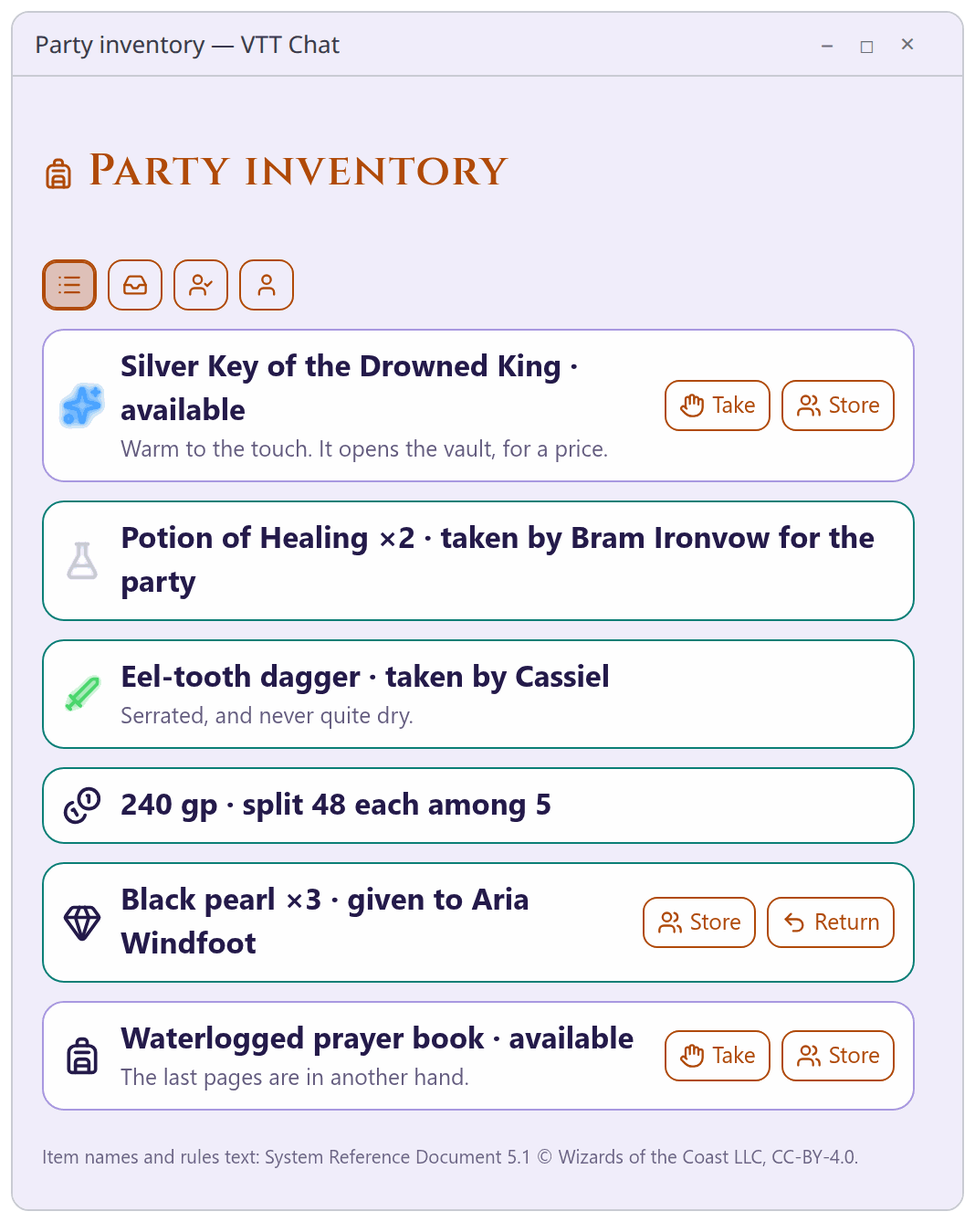
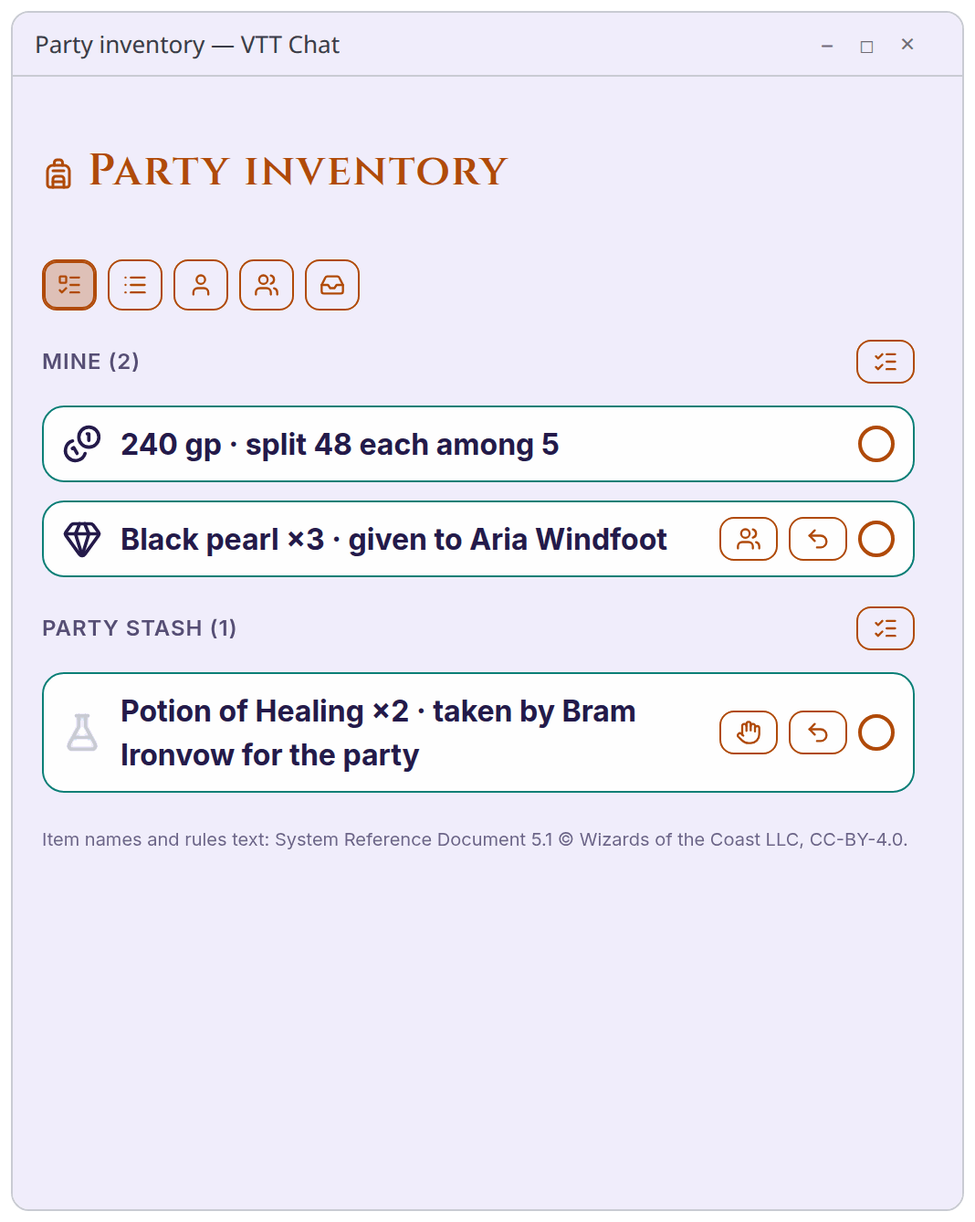
docs: new screenshots from the current build, and the guides brought up to 0.6.4
The history tabs and the Transcript tab, the larger handouts, language spans and the reading switches, dev downloads, and the 0.6.4 status.

diff --git a/ROADMAP.md b/ROADMAP.md
@@ -18,28 +18,28 @@
 
 **Stage 13 was closed by Andy on 2026-11-24.** Session 4 validated the records pipeline end to end on a real, full-length session, and the manual sweep accepted the cloud connectors, OIDC and the cross-platform clients. Chunking for long sessions is built and merged (in 0.6.3-dev.1) but was not re-run on a real session; that is accepted, and a problem there is a bug. What is still a loose end is in the [stocktake](docs/BUILD-STATUS.md#stocktake-2026-11-21-what-is-built-and-what-is-not-yet-proven), none of it blocking. **Next is Stage 14** (0.6.3 and 0.6.4).
 
-| Stage                          | State | What was delivered                                                                                                                                                                                           | Detail                                                                                                                                         |
-| ------------------------------ | ----- | ------------------------------------------------------------------------------------------------------------------------------------------------------------------------------------------------------------ | ---------------------------------------------------------------------------------------------------------------------------------------------- |
-| 0 Foundations                  | 🟢    | Monorepo (npm and Cargo workspaces), lint, format, CI and conventions.                                                                                                                                       | [detail](docs/tracker/STAGES-0-TO-8.md#stage-0--foundations)                                                                                   |
-| 0.5 State and resilience       | 🟢    | The rules for client state on long sessions (leaf isolation, no-op guards, hidden is the default).                                                                                                           | [detail](docs/tracker/STAGES-0-TO-8.md#stage-05--state--resilience-architecture)                                                               |
-| 1 Pivot cleanup                | 🟢    | The old browser-overlay design removed and the repo rewritten (v0.2.0).                                                                                                                                      | [detail](docs/tracker/STAGES-0-TO-8.md#stage-1--pivot-cleanup)                                                                                 |
-| 2 Audio and records spike      | 🟢    | The Rust audio and LiveKit client, echo cancellation, the cue player and Egress recording, measured on real machines.                                                                                        | [detail](docs/tracker/STAGES-0-TO-8.md#stage-2--audio--records-spike)                                                                          |
-| 3 Server core                  | 🟢    | Accounts, campaigns, invites, DM swap, the REST and WebSocket layer with replay, Postgres and Valkey, recording consent and the Admin CLI, in both install tiers.                                            | [detail](docs/tracker/STAGES-0-TO-8.md#stage-3--server-core)                                                                                   |
-| 3b Deployment buildout         | 🟢    | Published images, the one-command installer, the protocol handshake, server-chosen client builds, web onboarding and Devices.                                                                                | [detail](docs/tracker/STAGES-0-TO-8.md#stage-3b--deployment-buildout-added-2026-11-11)                                                         |
-| 4 Tray client                  | 🟢    | The system-tray app: main window, voice and mixer, status, notifications, auto-rejoin, autostart and the updater.                                                                                            | [detail](docs/tracker/STAGES-0-TO-8.md#stage-4--tray-client)                                                                                   |
-| 5 Records and AI summaries     | 🟢    | Per-speaker recording, Whisper, and a scribe then a bard, on the operator's own hardware (or a remote one, with fallback); search; DM-only summaries.                                                        | [detail](docs/tracker/STAGES-0-TO-8.md#stage-5--records--ai-summaries-core)                                                                    |
-| 6 Table features               | 🟢    | Chat and whispers, handouts, loot, party splits, the soundboard, schedule and RSVP. Voice whispers were dropped.                                                                                             | [detail](docs/tracker/STAGES-0-TO-8.md#stage-6--table-features)                                                                                |
-| 7 Web app                      | 🟢    | The same app on any device at `/app`, with chat commands, history and handouts.                                                                                                                              | [detail](docs/tracker/STAGES-0-TO-8.md#stage-7--mobile-spa)                                                                                    |
-| 8 Operations                   | 🟢    | `vtt-admin`, the public status page, backup and restore.                                                                                                                                                     | [detail](docs/tracker/STAGES-0-TO-8.md#stage-8--operations-admin-cli--status-page)                                                             |
-| 9 Hardening                    | 🟢    | The idle-CPU cause found and fixed, container hardening, records a CPU-only server can keep up with, updates that clean up after themselves.                                                                 | [detail](docs/tracker/STAGE-09-HARDENING.md#stage-9--cross-platform-hardening--production-readiness)                                           |
-| 10 Integrations and loot       | 🟢    | D&D Beyond sync, single sign-on, the release pipeline, loot management and chat history. The rest of its list is ideas.                                                                                      | [detail](docs/tracker/STAGE-10-INTEGRATIONS-AND-LOOT.md#stage-10--optional-integrations-advanced-users)                                        |
-| 11 Protocol 4 and verification | 🟢    | 0.6.0 (protocol 4): loot re-drop and confirm, the soundboard, GM Notes, the glossary, the storyteller setting, the off-site notice, sheet details. 0.6.1: the sound deck, the phone table page, macOS Intel. | [detail](docs/tracker/STAGE-11-PROTOCOL-4.md#stage-11--protocol-4-and-verification-060-and-061-planned-2026-11-18)                             |
-| 12 Storytelling                | 🟢    | The Claude and OpenAI connectors, a glossary into Whisper and corrections, a structured scribe, the Chronicler, campaign memory and five storytellers. **Unit-tested only; none has met a real session.**    | [detail](docs/tracker/STAGE-12-STORYTELLING.md#stage-12--storytelling-roles-personas-and-campaign-memory-idea-2026-11-17-scheduled-2026-11-18) |
-| 13 Quality validation          | 🟢    | Closed 2026-11-24 (Andy). The demo campaign run end to end on real hardware, the manual sweep accepted, chunking built; problems from here are bugs.                                                         | [detail](docs/tracker/STAGE-13-QUALITY-VALIDATION.md)                                                                                          |
-| 14 Polish on protocol 4        | 🟡    | **Planned 2026-11-24.** No wire change, so patch releases: **0.6.3** (small: a font for every language, one icon set for both apps) and **0.6.4** (larger: language spans, history tabs, ops tooling).       | [below](#stage-14--polish-on-protocol-4-063-and-064-planned-2026-11-24)                                                                        |
-| 15 Protocol 5 (0.7.0)          | ⚪    | **Planned, not fully designed.** The next wire bump, led by campaign memory (the glossary, lore import and a knowledge graph) and the loose ends that need the wire.                                         | [below](#stage-15--protocol-5-and-070-planned-2026-11-21)                                                                                      |
-| 16 to 18                       | ⚪    | Ideas, not scheduled: signed Linux package repositories; a self-signed certificate the app can pin; several workers.                                                                                         | [below](#stage-16--linux-package-repositories-served-by-the-server-idea-2026-11-19-not-scheduled)                                              |
-| Future ideas                   | ⚪    | Parked, undesigned.                                                                                                                                                                                          | [below](#future-ideas)                                                                                                                         |
+| Stage                          | State | What was delivered                                                                                                                                                                                                                                                 | Detail                                                                                                                                         |
+| ------------------------------ | ----- | ------------------------------------------------------------------------------------------------------------------------------------------------------------------------------------------------------------------------------------------------------------------ | ---------------------------------------------------------------------------------------------------------------------------------------------- |
+| 0 Foundations                  | 🟢    | Monorepo (npm and Cargo workspaces), lint, format, CI and conventions.                                                                                                                                                                                             | [detail](docs/tracker/STAGES-0-TO-8.md#stage-0--foundations)                                                                                   |
+| 0.5 State and resilience       | 🟢    | The rules for client state on long sessions (leaf isolation, no-op guards, hidden is the default).                                                                                                                                                                 | [detail](docs/tracker/STAGES-0-TO-8.md#stage-05--state--resilience-architecture)                                                               |
+| 1 Pivot cleanup                | 🟢    | The old browser-overlay design removed and the repo rewritten (v0.2.0).                                                                                                                                                                                            | [detail](docs/tracker/STAGES-0-TO-8.md#stage-1--pivot-cleanup)                                                                                 |
+| 2 Audio and records spike      | 🟢    | The Rust audio and LiveKit client, echo cancellation, the cue player and Egress recording, measured on real machines.                                                                                                                                              | [detail](docs/tracker/STAGES-0-TO-8.md#stage-2--audio--records-spike)                                                                          |
+| 3 Server core                  | 🟢    | Accounts, campaigns, invites, DM swap, the REST and WebSocket layer with replay, Postgres and Valkey, recording consent and the Admin CLI, in both install tiers.                                                                                                  | [detail](docs/tracker/STAGES-0-TO-8.md#stage-3--server-core)                                                                                   |
+| 3b Deployment buildout         | 🟢    | Published images, the one-command installer, the protocol handshake, server-chosen client builds, web onboarding and Devices.                                                                                                                                      | [detail](docs/tracker/STAGES-0-TO-8.md#stage-3b--deployment-buildout-added-2026-11-11)                                                         |
+| 4 Tray client                  | 🟢    | The system-tray app: main window, voice and mixer, status, notifications, auto-rejoin, autostart and the updater.                                                                                                                                                  | [detail](docs/tracker/STAGES-0-TO-8.md#stage-4--tray-client)                                                                                   |
+| 5 Records and AI summaries     | 🟢    | Per-speaker recording, Whisper, and a scribe then a bard, on the operator's own hardware (or a remote one, with fallback); search; DM-only summaries.                                                                                                              | [detail](docs/tracker/STAGES-0-TO-8.md#stage-5--records--ai-summaries-core)                                                                    |
+| 6 Table features               | 🟢    | Chat and whispers, handouts, loot, party splits, the soundboard, schedule and RSVP. Voice whispers were dropped.                                                                                                                                                   | [detail](docs/tracker/STAGES-0-TO-8.md#stage-6--table-features)                                                                                |
+| 7 Web app                      | 🟢    | The same app on any device at `/app`, with chat commands, history and handouts.                                                                                                                                                                                    | [detail](docs/tracker/STAGES-0-TO-8.md#stage-7--mobile-spa)                                                                                    |
+| 8 Operations                   | 🟢    | `vtt-admin`, the public status page, backup and restore.                                                                                                                                                                                                           | [detail](docs/tracker/STAGES-0-TO-8.md#stage-8--operations-admin-cli--status-page)                                                             |
+| 9 Hardening                    | 🟢    | The idle-CPU cause found and fixed, container hardening, records a CPU-only server can keep up with, updates that clean up after themselves.                                                                                                                       | [detail](docs/tracker/STAGE-09-HARDENING.md#stage-9--cross-platform-hardening--production-readiness)                                           |
+| 10 Integrations and loot       | 🟢    | D&D Beyond sync, single sign-on, the release pipeline, loot management and chat history. The rest of its list is ideas.                                                                                                                                            | [detail](docs/tracker/STAGE-10-INTEGRATIONS-AND-LOOT.md#stage-10--optional-integrations-advanced-users)                                        |
+| 11 Protocol 4 and verification | 🟢    | 0.6.0 (protocol 4): loot re-drop and confirm, the soundboard, GM Notes, the glossary, the storyteller setting, the off-site notice, sheet details. 0.6.1: the sound deck, the phone table page, macOS Intel.                                                       | [detail](docs/tracker/STAGE-11-PROTOCOL-4.md#stage-11--protocol-4-and-verification-060-and-061-planned-2026-11-18)                             |
+| 12 Storytelling                | 🟢    | The Claude and OpenAI connectors, a glossary into Whisper and corrections, a structured scribe, the Chronicler, campaign memory and five storytellers. **Unit-tested only; none has met a real session.**                                                          | [detail](docs/tracker/STAGE-12-STORYTELLING.md#stage-12--storytelling-roles-personas-and-campaign-memory-idea-2026-11-17-scheduled-2026-11-18) |
+| 13 Quality validation          | 🟢    | Closed 2026-11-24 (Andy). The demo campaign run end to end on real hardware, the manual sweep accepted, chunking built; problems from here are bugs.                                                                                                               | [detail](docs/tracker/STAGE-13-QUALITY-VALIDATION.md)                                                                                          |
+| 14 Polish on protocol 4        | 🟡    | **Planned 2026-11-24.** No wire change, so patch releases: **0.6.3** (small: a font for every language, one icon set for both apps) and **0.6.4** (larger: language spans, history tabs, ops tooling; built, released 2026-11-25, closed by Andy's session 4 run). | [below](#stage-14--polish-on-protocol-4-063-and-064-planned-2026-11-24)                                                                        |
+| 15 Protocol 5 (0.7.0)          | ⚪    | **Planned, not fully designed.** The next wire bump, led by campaign memory (the glossary, lore import and a knowledge graph) and the loose ends that need the wire.                                                                                               | [below](#stage-15--protocol-5-and-070-planned-2026-11-21)                                                                                      |
+| 16 to 18                       | ⚪    | Ideas, not scheduled: signed Linux package repositories; a self-signed certificate the app can pin; several workers.                                                                                                                                               | [below](#stage-16--linux-package-repositories-served-by-the-server-idea-2026-11-19-not-scheduled)                                              |
+| Future ideas                   | ⚪    | Parked, undesigned.                                                                                                                                                                                                                                                | [below](#future-ideas)                                                                                                                         |
 
 ```mermaid
 flowchart LR

diff --git a/docs/guides/USER-GUIDE.md b/docs/guides/USER-GUIDE.md
@@ -171,6 +171,10 @@ a **PDF**. Each can have a short caption.
 - **Click a card** to open it big, in its own window you can place beside the game. Pictures have **zoom**
   buttons (also Ctrl + the mouse wheel; drag to move around), which is useful for a large map. A PDF is
   read page by page inside the window.
+- A note can set a few words, or a whole inscription, in an **in-world language's own typeface**: write
+  `[Khazad ul barak](lang:dwarvish)`, or put a longer passage in a fenced block named for the language. Anywhere else it
+  reads as plain text. **Settings, Profile, Appearance** has switches to turn the language fonts, or the decorative document fonts,
+  down or off if they are hard to read.
 - Only the DM can edit a handout (open it and press the pencil). For a set of pictures the pencil also shows a
   strip to move a picture earlier or later, remove one (never the last), or add another. The handouts button in the bar lists
   everything shared with you.
@@ -207,7 +211,7 @@ you hear it first.
 - **Never recorded or transcribed:** whispers, sound effects from the DM's soundboard, and anything private.
 - **Who tells the tale** (Game Master): **Settings, Campaign, Storyteller** picks one of the storytellers the server offers (on the phone: tap the table's name, then pick one under **Storyteller**) (the Tavern Bard by default). Everyone can see who it is. Your server's operator decides which storytellers, how long the tales may be and how strong the language may be.
 - **Read them later** with the **session history** button: the tale of the session, its heroes and its chapters as tabs (**The Tale, The Heroes, The Story**, and for the Game Master **The Notes**), and a search across them. On the desktop the pop-out button beside the tabs opens a session in a window of its own.
-  The DM also sees a private brief, and can open the scribe's notes (the plain list of what happened that the tales were told from) with a button. The word-for-word transcript is not shown to players; a DM can read it in the desktop app after turning on **Settings → App → Include dev builds**.
+  The DM also sees a private brief and the scribe's notes (the plain list of what happened that the tales were told from) on **The Notes** tab. The word-for-word transcript is not shown to players; a DM can read it in the desktop app, as a **Transcript** tab, after turning on **Settings → App → Include dev builds**.
 - **If the DM drops** (their computer crashes or their network goes), the recording carries on for a short
   grace period (30 seconds by default). After that **any player** can pause, resume or stop it from the top
   bar. If everyone disconnects, it stops by itself.
@@ -280,11 +284,11 @@ different versions, update the app, or ask your DM to update the server if the a
 
 <img src="../images/screens/desktop-soundboard.png" alt="The sound drawer: character voices, stingers and scenes" width="380"> <img src="../images/screens/desktop-groups.png" alt="Voice groups: the Main Party and a place to start a new group" width="380">
 
-<img src="../images/screens/desktop-history-gm.png" alt="Session history as the DM sees it: the DM brief and the button for the scribe’s notes" width="300"> <img src="../images/screens/desktop-loot.png" alt="The party inventory as the DM sees it, with the tools to drop items and coin" width="300"> <img src="../images/screens/desktop-quality.png" alt="Settings, Players: each player’s latency over the last two minutes" width="300">
+<img src="../images/screens/desktop-history-gm.png" alt="Session history as the DM sees it: the tale split into tabs (The Tale, The Heroes, The Story, The Notes), here on The Heroes" width="300"> <img src="../images/screens/desktop-loot.png" alt="The party inventory as the DM sees it, with the tools to drop items and coin" width="300"> <img src="../images/screens/desktop-quality.png" alt="Settings, Players: each player’s latency over the last two minutes" width="300">
 
-_Top: the sound drawer (voices, stingers, scenes) and voice groups. Bottom: the DM brief with the scribe's notes folded behind their button, the inventory with the DM's drop tools, and each player's connection quality (Elowen's link is the slow one). The campaign's own settings (invites, handing over the DM role, join requests) are in Settings → Campaign:_
+_Top: the sound drawer (voices, stingers, scenes) and voice groups. Bottom: a session's heroes on their own tab (the DM also has The Notes), the inventory with the DM's drop tools, and each player's connection quality (Elowen's link is the slow one). The campaign's own settings (invites, handing over the DM role, join requests) are in Settings → Campaign:_
 
-<img src="../images/screens/desktop-settings-campaign.png" alt="Settings, Campaign: the description, invite links, handing over the DM role, and join requests" width="380"> <img src="../images/screens/desktop-history-notes.png" alt="The scribe’s notes, opened" width="380">
+<img src="../images/screens/desktop-settings-campaign.png" alt="Settings, Campaign: the description, invite links, handing over the DM role, and join requests" width="380"> <img src="../images/screens/desktop-history-notes.png" alt="The Notes tab, with the DM brief and the scribe’s notes" width="380">
 
 **GM notes and the glossary**
 

diff --git a/docs/BUILD-STATUS.md b/docs/BUILD-STATUS.md
@@ -36,14 +36,18 @@ path), so `status` can be a few minutes stale after a config change; `--tune` ac
 value, not a fresh on-demand query. The bigger `vtt-admin test ai|voice|full` idea and external
 connectivity checking were both parked (ROADMAP.md, Future ideas) rather than built now.
 
-## Stage 14, 0.6.4 so far (2026-11-25): built and unit-tested, not yet seen in a real window
+## Stage 14, 0.6.4 (2026-11-25): built and unit-tested; the desktop screens seen by Andy on dev.2, the rest not yet run for real
 
-Dev builds `0.6.4-dev.N`. **None of this has been looked at in the real apps yet.**
+Dev builds `0.6.4-dev.1` and `dev.2` were deployed to the VM. **Andy looked at dev.2 in the real desktop app** and liked the campaign chooser; what he asked for after that (below, marked _after dev.2_) is built but has only been unit-tested. The full session 4 test, run by Andy on the released 0.6.4, closes the stage.
 
-- **Icon audit and the lucide fixes** (dev.1): Coins no longer shows a door, the 11 starter boards and 4 scenes have icons, the ability tiles carry watermarks, the campaign chooser is cards with a dry quip, and Game Icons is parked in Future ideas. The context-window status fix is in dev.1 too.
-- **Language spans** (after dev.1): `[words](lang:dwarvish)` and a fenced block named for a language, in handouts, notes and tales, in both apps (`makeLangComponents` in `ui-kit`), and the bard may write them. Known limit: a search snippet shows the markup as written.
-- **History as tabs** (after dev.1): `historyTabs()` in `shared/` (pure, no wire change), a `SessionTabs` component in each app, and on the desktop a pop-out window (`session_view_open` and `session_configure` in `windows.rs`, route `#session/<id>/<tab>`). The old "More detail" fold and `partitionSummaries` are gone.
-- **Signing:** the commits on the local branches from the language-spans work onward are **unsigned** (the 1Password agent was unreachable); they are re-signed before they are pushed.
+- **Icon audit and the lucide fixes** (dev.1): Coins no longer shows a door, the 11 starter boards and 4 scenes have icons, the ability tiles carry watermarks, the campaign chooser is cards with a dry quip (seen: "looks great"), and Game Icons is parked in Future ideas. The context-window status fix is in dev.1 too.
+- **Language spans:** `[words](lang:dwarvish)` and a fenced block named for a language, in handouts, notes and tales, in both apps (`makeLangComponents` in `ui-kit`), and the bard may write them. Known limit: a search snippet shows the markup as written.
+- **History as tabs** (seen on dev.2): `historyTabs()` in `shared/` (pure, no wire change), a `SessionTabs` component in each app, and on the desktop a pop-out window (`session_view_open` and `session_configure` in `windows.rs`, route `#session/<id>/<tab>`). _After dev.2:_ the window opens 640x780, the pop-out is the handouts' expand icon, and the DM's transcript is a **Transcript** tab instead of a button.
+- **Phone storyteller picker and GM notes:** built and unit-tested; **not yet tried on a phone**.
+- **`vtt-admin test ai|voice|reach|full`:** `ai` and `voice` were run on the VM (dev.2) and passed. `reach` found two faults in itself on its first real run (Cloudflare's 403 counted as a failure; the VM's split-horizon DNS answered with a private address); both are fixed _after dev.2_ along with the UDP echo proof, a node near the server, `--from`, CGNAT and router (UPnP/NAT-PMP) checks. **Those need one run on the VM on 0.6.4.** The UDP echo and the router lookup under Docker go through the `vtt-admin` wrapper and a host-network container; that path has been syntax-checked but not run.
+- **Models named in `jobs`/`status`** (migration 0046): applied on the VM with dev.2.
+- _After dev.2:_ handouts read larger; no "post it again" on a loot card in chat; and the download page takes `?dev=1` (the app opens it that way for a player on dev builds), served from `dev/downloads.json` written by `updates sync`. **Not yet seen on a real Linux `.deb`.**
+- **Signing:** the local commits were re-signed before they were pushed.
 
 ## Typography and icons, Stage 14 (0.6.3), 2026-11-24: built, seen in the real apps by Andy (fonts and the phone web app), released as 0.6.3
 

diff --git a/CHANGELOG.md b/CHANGELOG.md
@@ -10,6 +10,15 @@ the GitHub release notes and refuses to build a release without one. How to writ
 
 ## [Unreleased]
 
+## [0.6.4] - 2026-11-25
+
+A session's history reads as tabs, handouts and tales can set a line in an in-world language's own typeface, the phone
+app can choose the storyteller and keep the Game Master's notes, and the operator gets `vtt-admin test`: one command
+that proves the AI, voice and the way in from the internet all work, and says what to fix when they do not. A
+**PATCH** release: no protocol change, so 0.6.3 apps and servers work together. **Operators:** update the server
+(`vtt-admin update`; it adds one column to the jobs table), then `vtt-admin updates sync`, then try `vtt-admin test
+full --external`. **Players:** update the app.
+
 ### Added
 
 - **A past session reads as tabs: The Tale, The Heroes, The Story and The Notes.** One part at a time instead of the tale with everything folded under "More detail", in both apps. The Notes tab is the Game Master's alone (their brief, then the scribe's notes). The desktop app has a pop-out button beside the tabs that opens the session in a window of its own, on the tab you were reading, so a tale or the notes can sit beside the chat; opening the same session again brings that window forward.
@@ -33,6 +42,13 @@ the GitHub release notes and refuses to build a release without one. How to writ
 ### Fixed
 
 - **`vtt-admin status` showed "context window: not checked yet" for ever, and `--tune` had nothing to apply.** The worker was checking and saving the model's real context window, but the status command dropped it when reading it back. Both now see the check (it still appears a minute or two after the worker starts, then every 15 minutes). Found on the 0.6.3 test server.
+
+### Known limits
+
+- `vtt-admin test reach` cannot prove anything about a server behind a Cloudflare Tunnel's web side beyond "Cloudflare answers"; voice always needs its own forwarded ports. The router lookup (UPnP and NAT-PMP) only helps when the router answers and, under Docker, when the server's gateway is the router.
+- check-host.net has no places in Australia or New Zealand, so those servers are checked from Singapore or Indonesia, and `--from` can only name countries it covers.
+- A search result's snippet shows a language span's Markdown as written.
+- Read and unread marks on the session history, with a counter, are planned for 0.7.0 (they need the server).
 
 ## [0.6.3] - 2026-11-24
 

diff --git a/README.md b/README.md
@@ -61,7 +61,7 @@ The usual way a group plays online: everyone joins one Discord channel and leave
 
 - **Open-mic voice that stays out of the way.** A system-tray app, hidden ~90% of the time, with near-zero idle CPU, auto-rejoin, autostart and a tray icon that always shows whether you're live, muted or being recorded.
 - **Session records are core.** The server records each speaker separately, transcribes with Whisper, and then the AI roles write it up: a _scribe_ notes what happened, big and small, a _Chronicler_ prepares the Game Master's brief, a campaign memory remembers who and where, and a _bard_ retells it as a short heroic tale with dry wit (the fumbles told as proudly as the feats) for the session, each chapter and each hero. Every recording starts with a visible, audible consent cue.
-- **The tale is what the table reads.** Players get the tales. The DM also gets a private brief (key points, open threads, what to prepare next) and can open the scribe's full notes. The word-for-word transcript is a diagnostic view for the DM, not something players see.
+- **The tale is what the table reads.** Players get the tales. The DM also gets a private brief (key points, open threads, what to prepare next) and the scribe's full notes on a tab of their own. The word-for-word transcript is a diagnostic view for the DM, not something players see.
 - **Runs on modest hardware.** No GPU needed: on a 2010 Xeon without AVX, transcription takes about 1.7 times the length of the audio, and summaries come from a 4 GB local model. A GPU, yours or one on your LAN, makes it much faster.
 - **Self-host first.** One VM or server, **Docker Compose** (or a native install for advanced users), **no cloud account**. LiveKit, recording, Whisper and an LLM run on your box — or Whisper/the LLM can point at a GPU machine you own. Anyone can deploy their own instance.
 - **Cloud is optional.** Cloudflare (TURN, SFU, Workers AI, Pages), Claude or OpenAI for the summaries, and cloud transcription are _advanced-user adapters_, off by default and never required.

diff --git a/docs/guides/OPERATOR-GUIDE.md b/docs/guides/OPERATOR-GUIDE.md
@@ -778,7 +778,7 @@ download from with `UPDATES_SOURCE` in `.env`:
 - `off`: only what you publish by hand (below).
 
 `UPDATES_INCLUDE_DEV=1` (or `true`) also offers dev builds of your line to players who opted in. `vtt-admin updates sync` runs
-a sync now; `vtt-admin updates status` shows the source, what players are offered and what the mirror holds. It syncs
+a sync now; `vtt-admin updates status` shows the source, what players are offered and what the mirror holds. With dev builds on, the sync also keeps the dev build's installers for the download page, which the app opens with `?dev=1` for players who opted in (a `.deb` or `.rpm` cannot update itself, so this is how it gets a dev build). It syncs
 shortly after the server starts and every 6 hours.
 
 **Updating players' apps (by hand, for air-gapped servers or your own build):** build signed installers, then `vtt-admin updates publish <folder> --version
